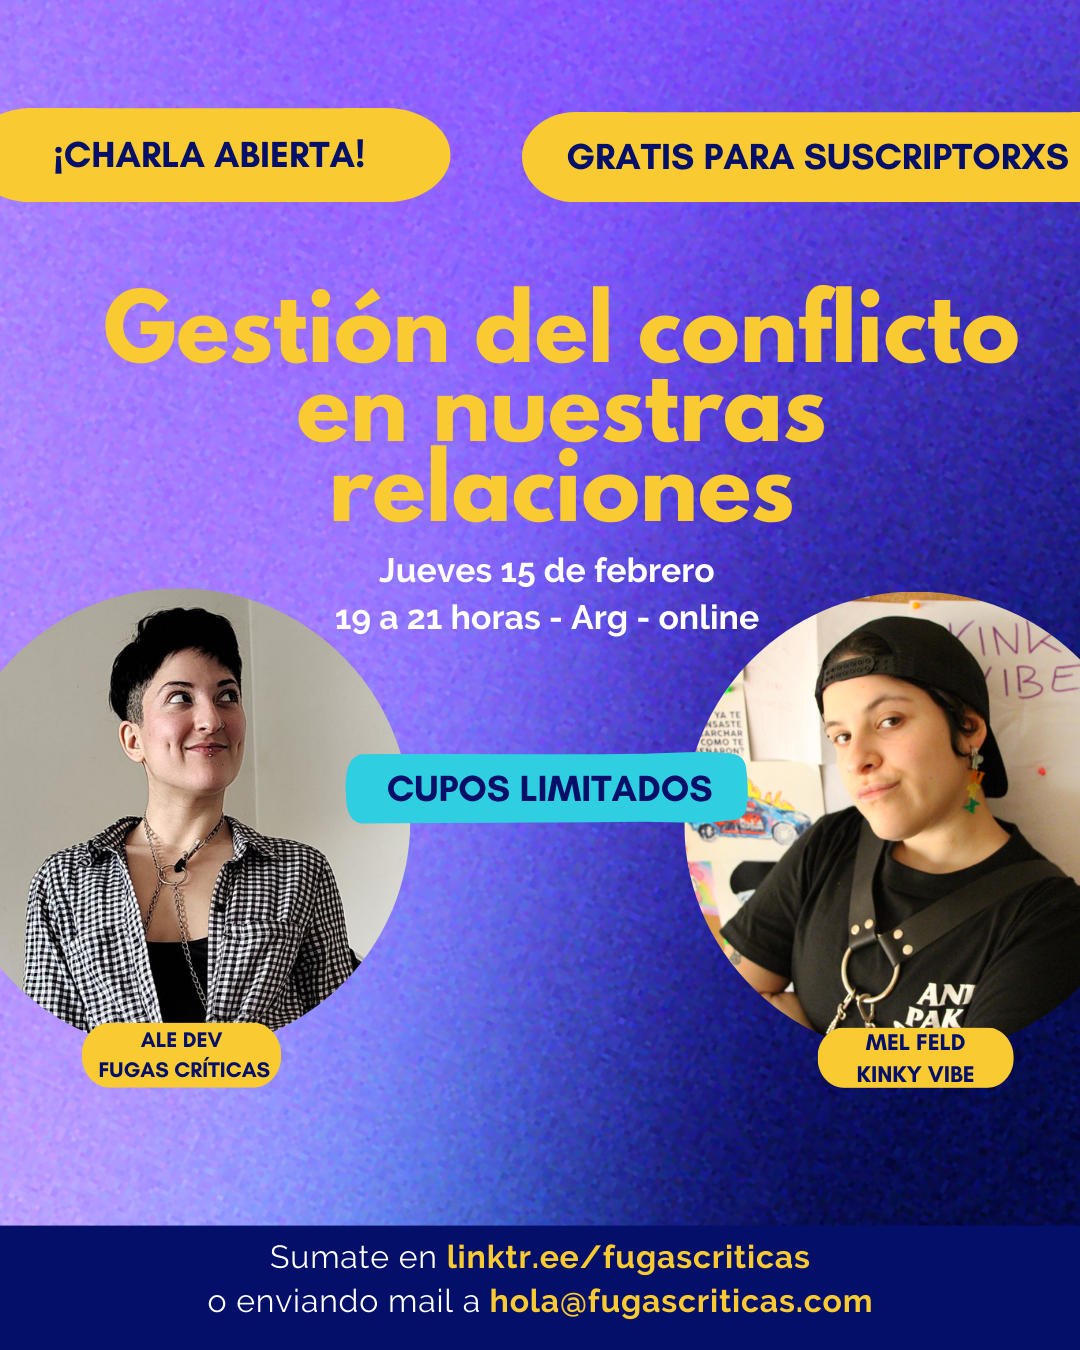
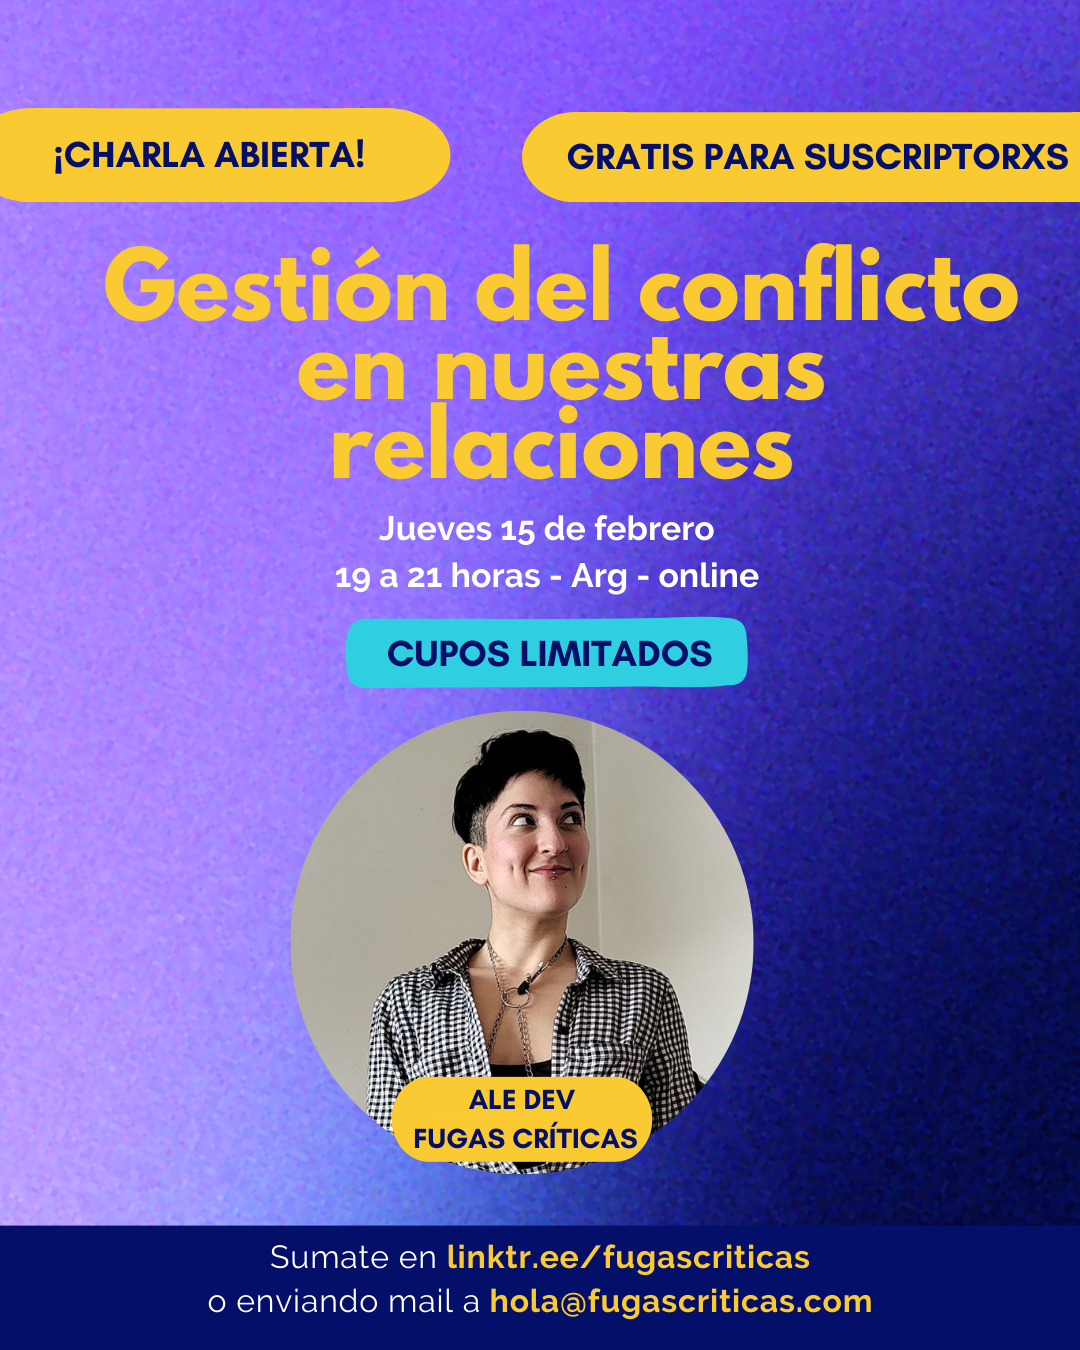
update gestion del conflicto event

diff --git a/src/lib/posts/calendario/gestion-del-conflicto-en-nuestras-relaciones.md b/src/lib/posts/calendario/gestion-del-conflicto-en-nuestras-relaciones.md
@@ -1,6 +1,6 @@
 ---
 published_date: 2024-02-02Z-03:00
-#updated_date:   2024-03-04Z-03:00
+updated_date:   2024-02-12Z-03:00
 title: Gestión del conflicto en nuestras relaciones
 summary: '¿Notás dificultades y desafíos al atravesar conflictos en tus relaciones y comunidades? ¿Necesitás herramientas para hacerlo de formas constructivas? Esta charla debate es para vos.'
 tags:
@@ -36,7 +36,7 @@ Construir modos de vida menos opresivos, menos crueles y menos punitivistas exig
 
 ¡Sumate a explorar y charlar sobre este tema, hacer preguntas y llevarte herramientas!
 
-Esta es una charla de la Comunidad @FugasCríticas, coordinada por ale dev, en la que vamos a contar con @DemonWeb de @KinkyVibe como invitado.
+Esta es una charla de la Comunidad @FugasCríticas, coordinada por ale dev.
 
 **CUPOS LIMITADOS**
 
